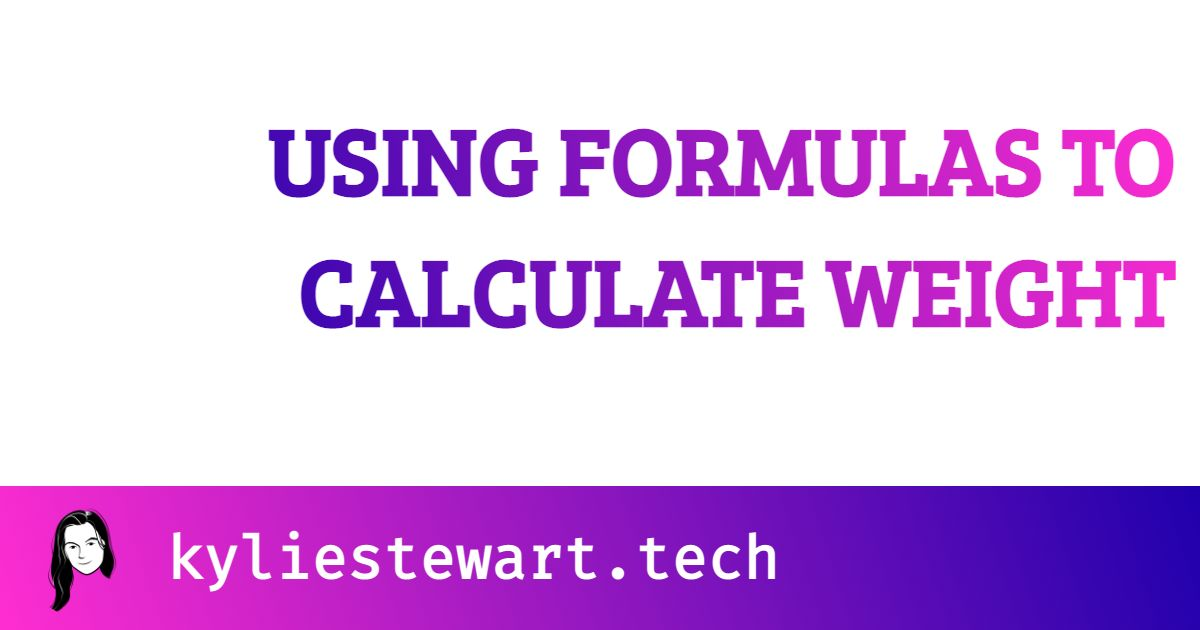
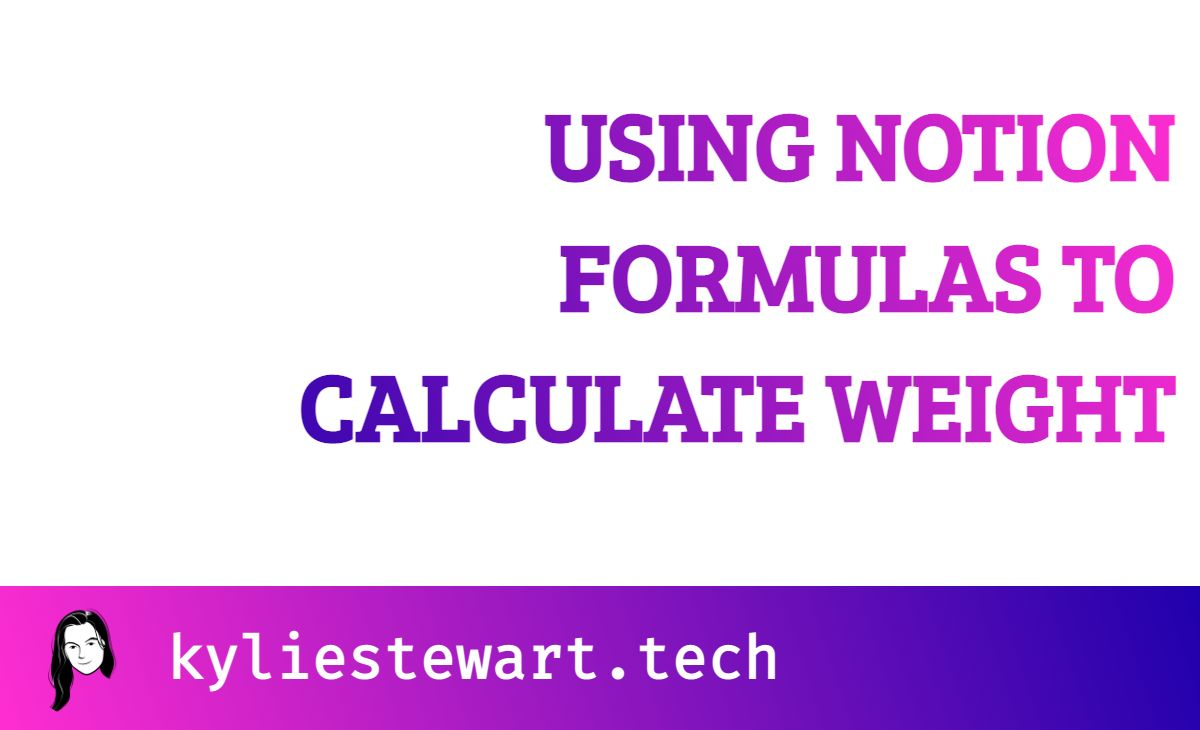
Use defaultSocialImage for blog overview page

Changed region(s): [[0.2158, 0.1508, 0.9867, 0.6333], [0.0, 0.754, 1.0, 0.9952]]

diff --git a/pages/blog.js b/pages/blog.js
@@ -3,13 +3,13 @@ import BlogCard from '../components/BlogCard'
 import Layout from '../components/Layout'
 import { getSortedPostsData } from '../utils/posts'
 import { CATEGORY_TYPE, METADATA } from '../utils/constants'
-import { socialImage } from '../utils/preview-cards'
+import { defaultSocialImage } from '../utils/preview-cards'
 
 import cardStyles from '../components/BlogCard.module.css'
 import categoryStyles from '../components/Category.module.css'
 import utilStyles from '../styles/utils.module.css'
 
-export default function BlogLandingPage({ allPostsData }) {
+export default function BlogLandingPage({ allPostsData, title }) {
   const [viewCategory, setCategory] = useState(CATEGORY_TYPE.ALL)
   const buildCategories = () =>
     Object.entries(CATEGORY_TYPE).map(([key, value]) => {
@@ -35,7 +35,7 @@ export default function BlogLandingPage({ allPostsData }) {
 
   return (
     <Layout>
-      <h1 className={utilStyles.headingXl}>Blog</h1>
+      <h1 className={utilStyles.headingXl}>{title}</h1>
       <section className={cardStyles.blogCategoryWrapper}>
         {buildCategories()}
       </section>
@@ -64,13 +64,13 @@ export default function BlogLandingPage({ allPostsData }) {
 
 export async function getStaticProps() {
   const allPostsData = getSortedPostsData()
-  const title = `${METADATA.NAME}'s Technical Blog`
+  const title = 'The Blog'
   const description = `${METADATA.NAME} is writing about Javascript, GraphQl, open source, and more.`
 
   return {
     props: {
       allPostsData,
-      ...(await socialImage({
+      ...(await defaultSocialImage({
         title,
         description,
         baseName: 'blog',

diff --git a/components/Category.js b/components/Category.js
@@ -9,16 +9,16 @@ const Category = ({ category }) => {
           {CATEGORY_TYPE.NOTION}
         </div>
       )
-    case CATEGORY_TYPE.TYPESCRIPT:
-      return (
-        <div className={`${styles.categoryPill} ${styles.categoryTwo}`}>
-          {CATEGORY_TYPE.TYPESCRIPT}
-        </div>
-      )
     case CATEGORY_TYPE.JAVASCRIPT:
       return (
-        <div className={`${styles.categoryPill} ${styles.categoryThree}`}>
+        <div className={`${styles.categoryPill} ${styles.categoryTwo}`}>
           {CATEGORY_TYPE.JAVASCRIPT}
+        </div>
+      )
+    case CATEGORY_TYPE.TYPESCRIPT:
+      return (
+        <div className={`${styles.categoryPill} ${styles.categoryThree}`}>
+          {CATEGORY_TYPE.TYPESCRIPT}
         </div>
       )
     case CATEGORY_TYPE.REACT:

diff --git a/utils/constants.js b/utils/constants.js
@@ -1,13 +1,13 @@
 export const CATEGORY_TYPE = {
   ALL: 'all',
-  TYPESCRIPT: 'typescript',
-  NOTION: 'notion',
   // CAREER: 'career',
   // GQL: 'graphql',
   // JAVASCRIPT: 'javascript',
   // ML: 'machine learning',
-  // REACT: 'react',
-  // TOOLS: 'tools'
+  NOTION: 'notion',
+  REACT: 'react',
+  // TOOLS: 'tools',
+  TYPESCRIPT: 'typescript',
 }
 
 export const CONTENT_DIRECTORY = 'content'

diff --git a/content/using-formulas-to-calculate-weight.md b/content/using-formulas-to-calculate-weight.md
@@ -1,5 +1,5 @@
 ---
-title: 'Using Formulas to Calculate Weight'
+title: 'Using Notion Formulas to Calculate Weight'
 date: '2020-04-16'
 category: 'notion'
 ---
